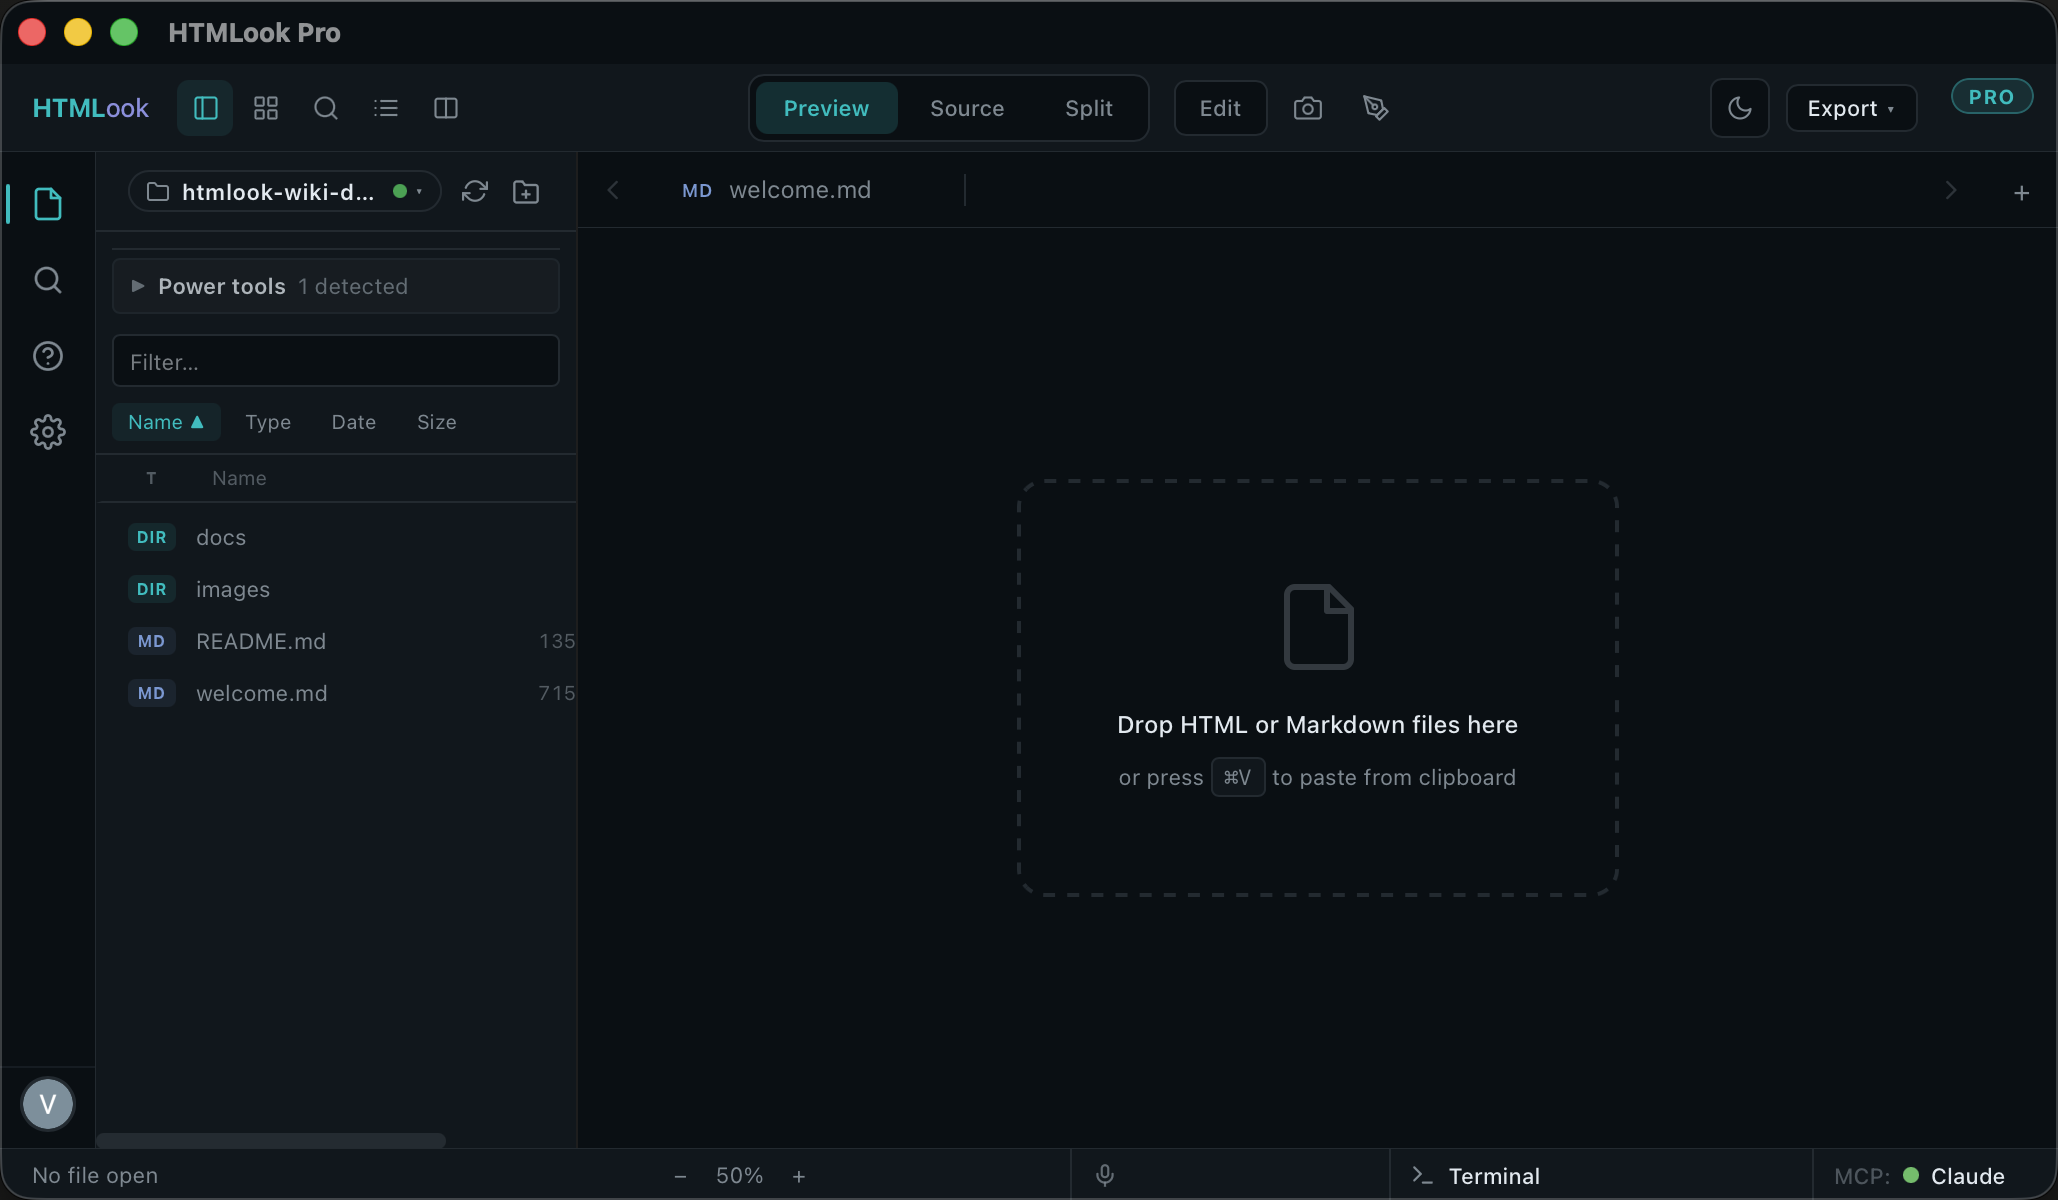
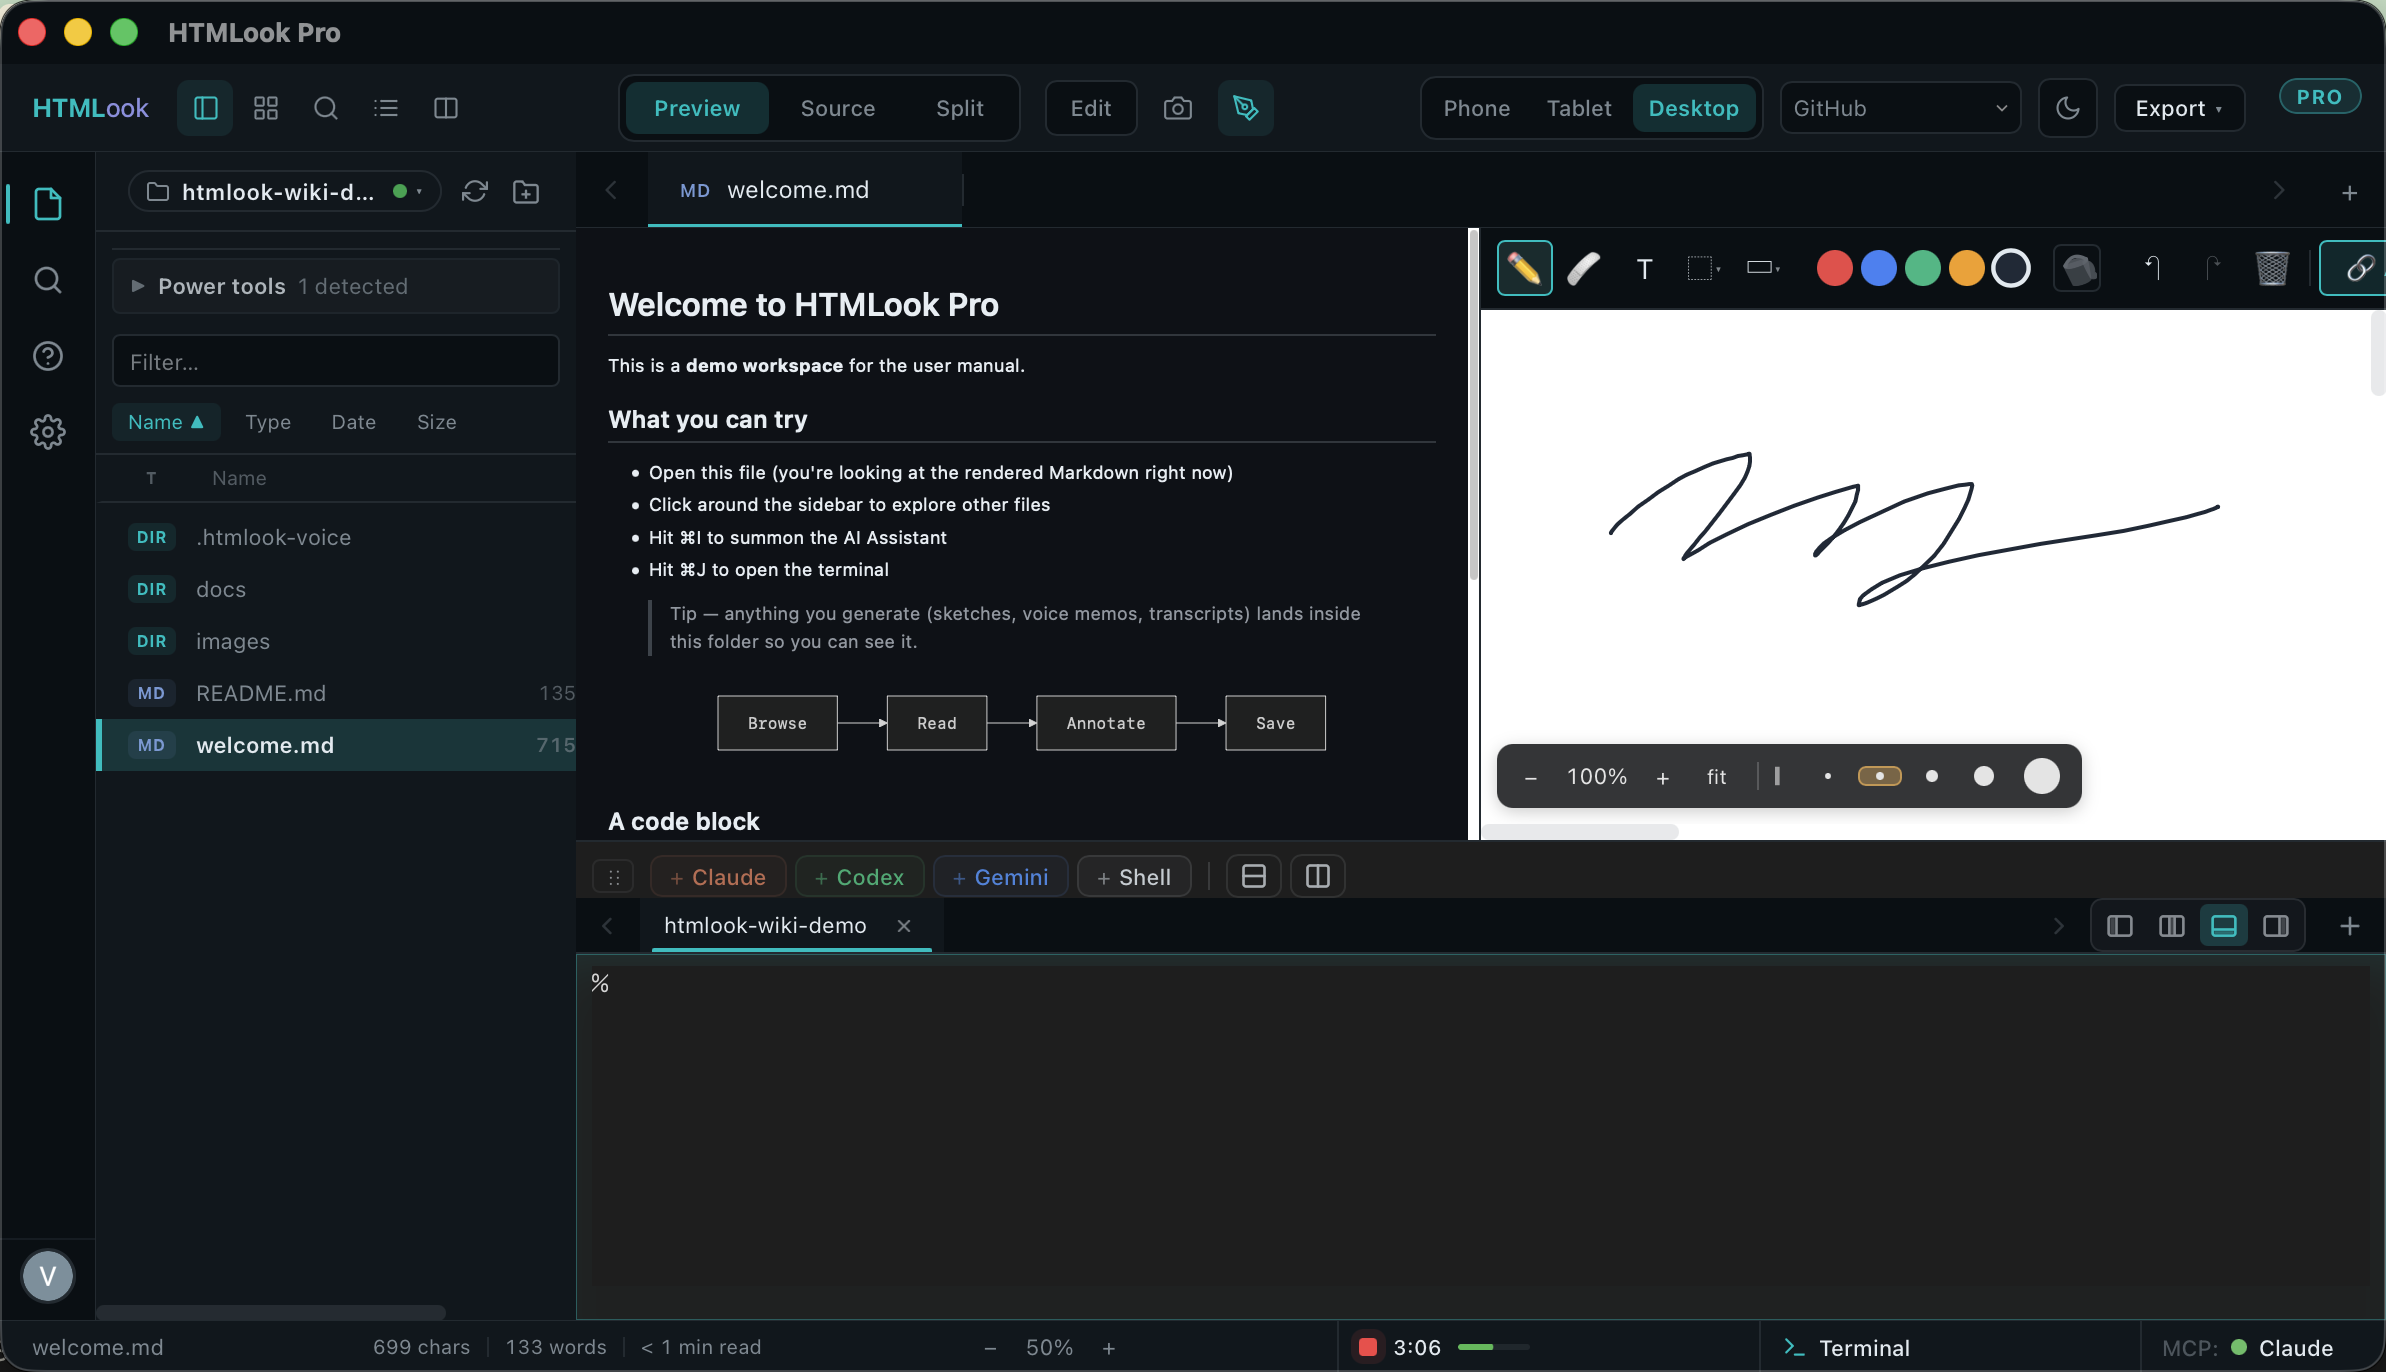
wiki: sync from main repo @ 7806ab4
Generated by scripts/sync-wiki.sh from v1.0.9-dogfooding-ready at 7806ab4.

diff --git a/wiki/Paint-ko.md b/wiki/Paint-ko.md
@@ -2,6 +2,8 @@
 
 > 뷰어 위 투명 스케치 캔버스. ⌘⌥P 토글. 동그라미 치고, 가리키고, 보내는 용도.
 
+![마크다운 뷰어 위에 오버레이된 Paint 캔버스](images/07-paint.png)
+
 ## 왜 있나
 
 "내가 말하는 게 이거다" 의 절반은 제스처 — *이 열* · *이 추세* · *이 정렬 어긋남*. Paint 가 표시할 layer 를 주고, 결과를 저장하고, AI 어시스턴트의 이미지 첨부로 바로 보냅니다.

diff --git a/wiki/Paint.md b/wiki/Paint.md
@@ -2,6 +2,8 @@
 
 > A transparent sketch canvas on top of the viewer. ⌘⌥P toggles. Circle, point, send.
 
+![Paint canvas overlay on top of a Markdown viewer](images/07-paint.png)
+
 ## Why it's there
 
 Half of "explaining what you mean" is gesture — *this column*, *this trend*, *this misalignment*. Paint gives you a layer to mark on, save the result, and drop it straight into the AI Assistant as an image attachment.

diff --git a/wiki/README.md b/wiki/README.md
@@ -5,4 +5,4 @@
 Start at **[Home](Home.md)** (English) or **[Home-ko](Home-ko.md)** (한국어).
 
 Source-of-truth: `deep-on/htmlook` at `docs/wiki/` — mirrored here by
-`scripts/sync-wiki.sh` (last mirror: 7466171).
+`scripts/sync-wiki.sh` (last mirror: 7806ab4).

diff --git a/wiki/Terminal-ko.md b/wiki/Terminal-ko.md
@@ -2,6 +2,8 @@
 
 > 앱 안의 진짜 터미널. AI 어시스턴트 (Claude / Codex / Gemini) 가 같은 워크스페이스에 *함께* 앉도록 설계.
 
+![Claude / Codex / Gemini / Shell preset 이 있는 터미널 패널](images/05-terminal.png)
+
 ## 토글과 docking
 
 | 동작 | 단축키 |

diff --git a/wiki/Terminal.md b/wiki/Terminal.md
@@ -2,6 +2,8 @@
 
 > A real terminal inside the app, designed so an AI assistant (Claude / Codex / Gemini) sits *with* you in the same workspace.
 
+![Terminal panel with Claude / Codex / Gemini / Shell presets](images/05-terminal.png)
+
 ## Toggle and dock
 
 | Action | Shortcut |